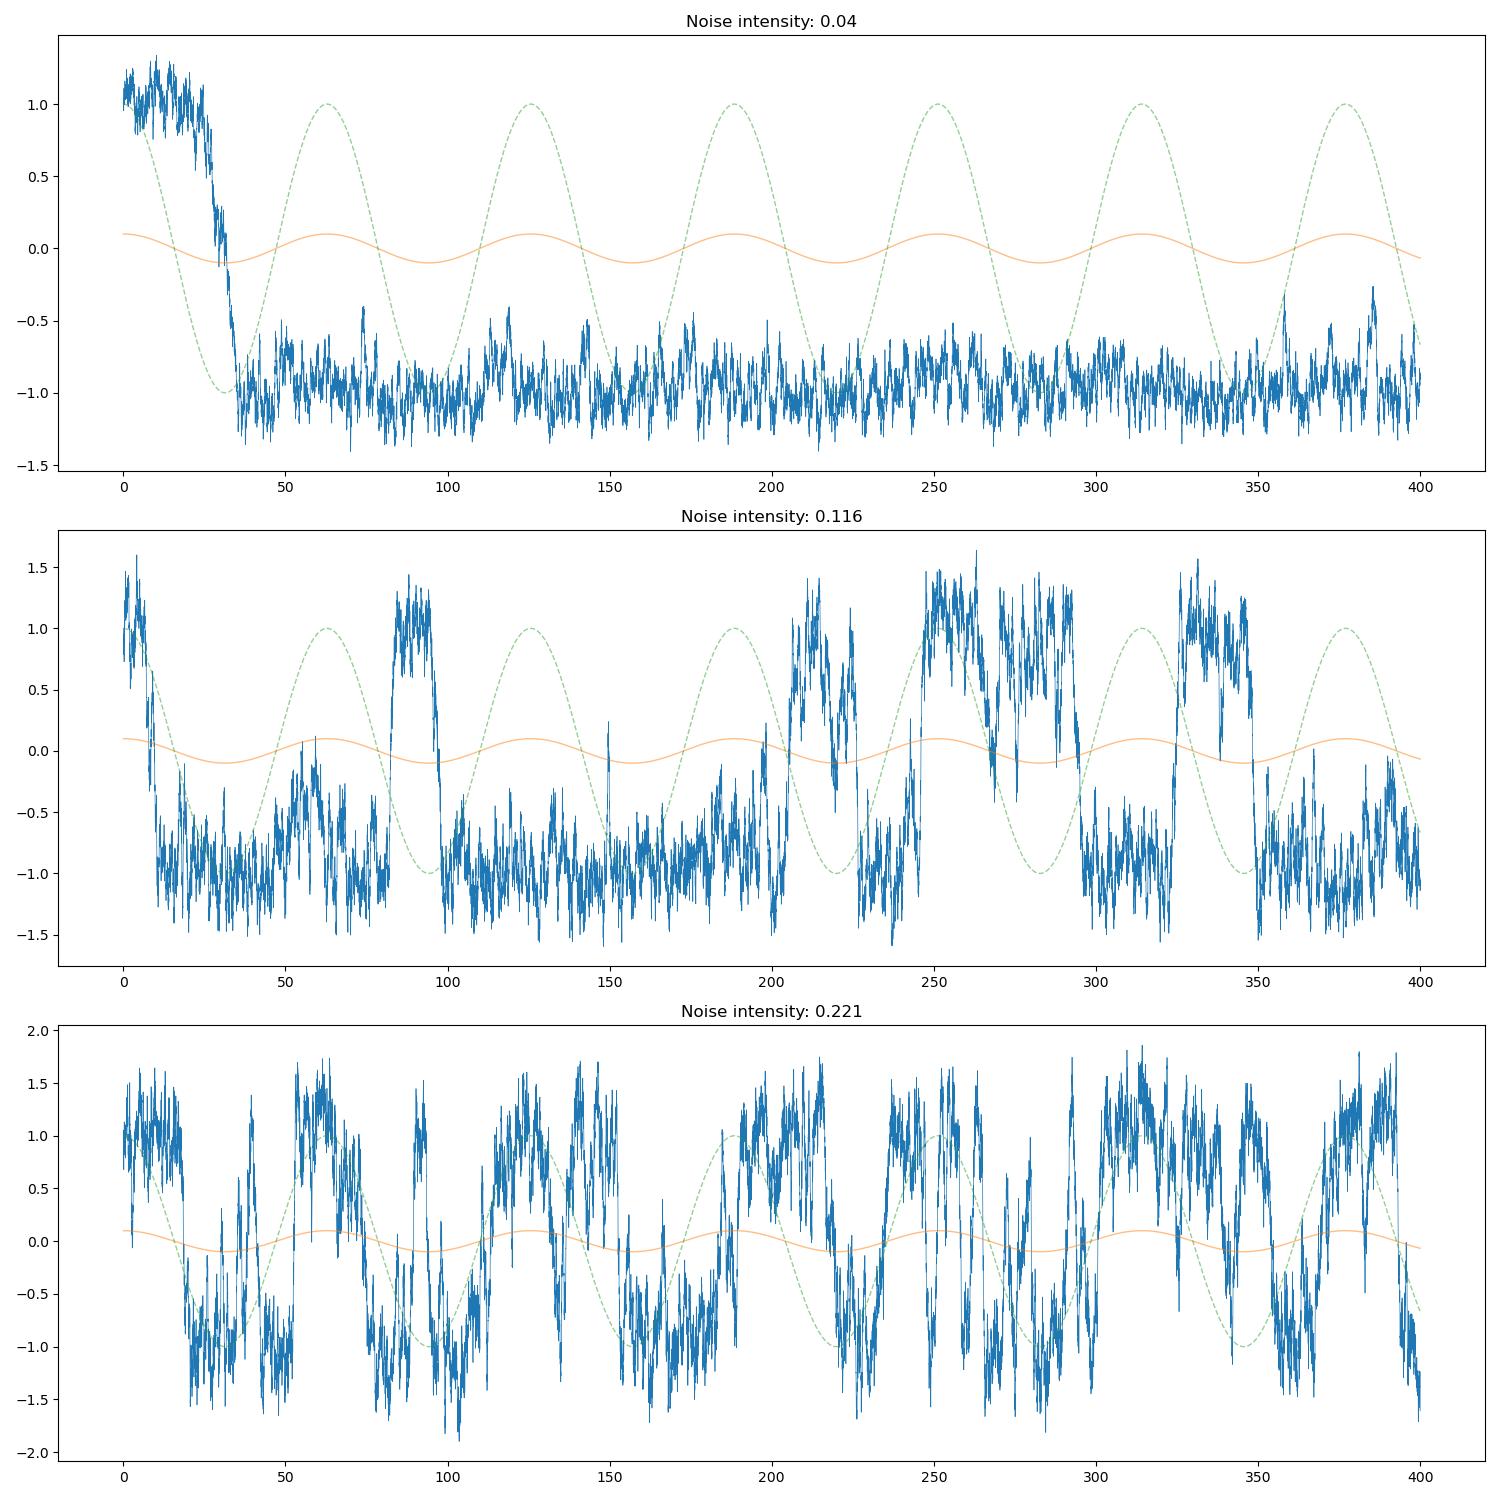
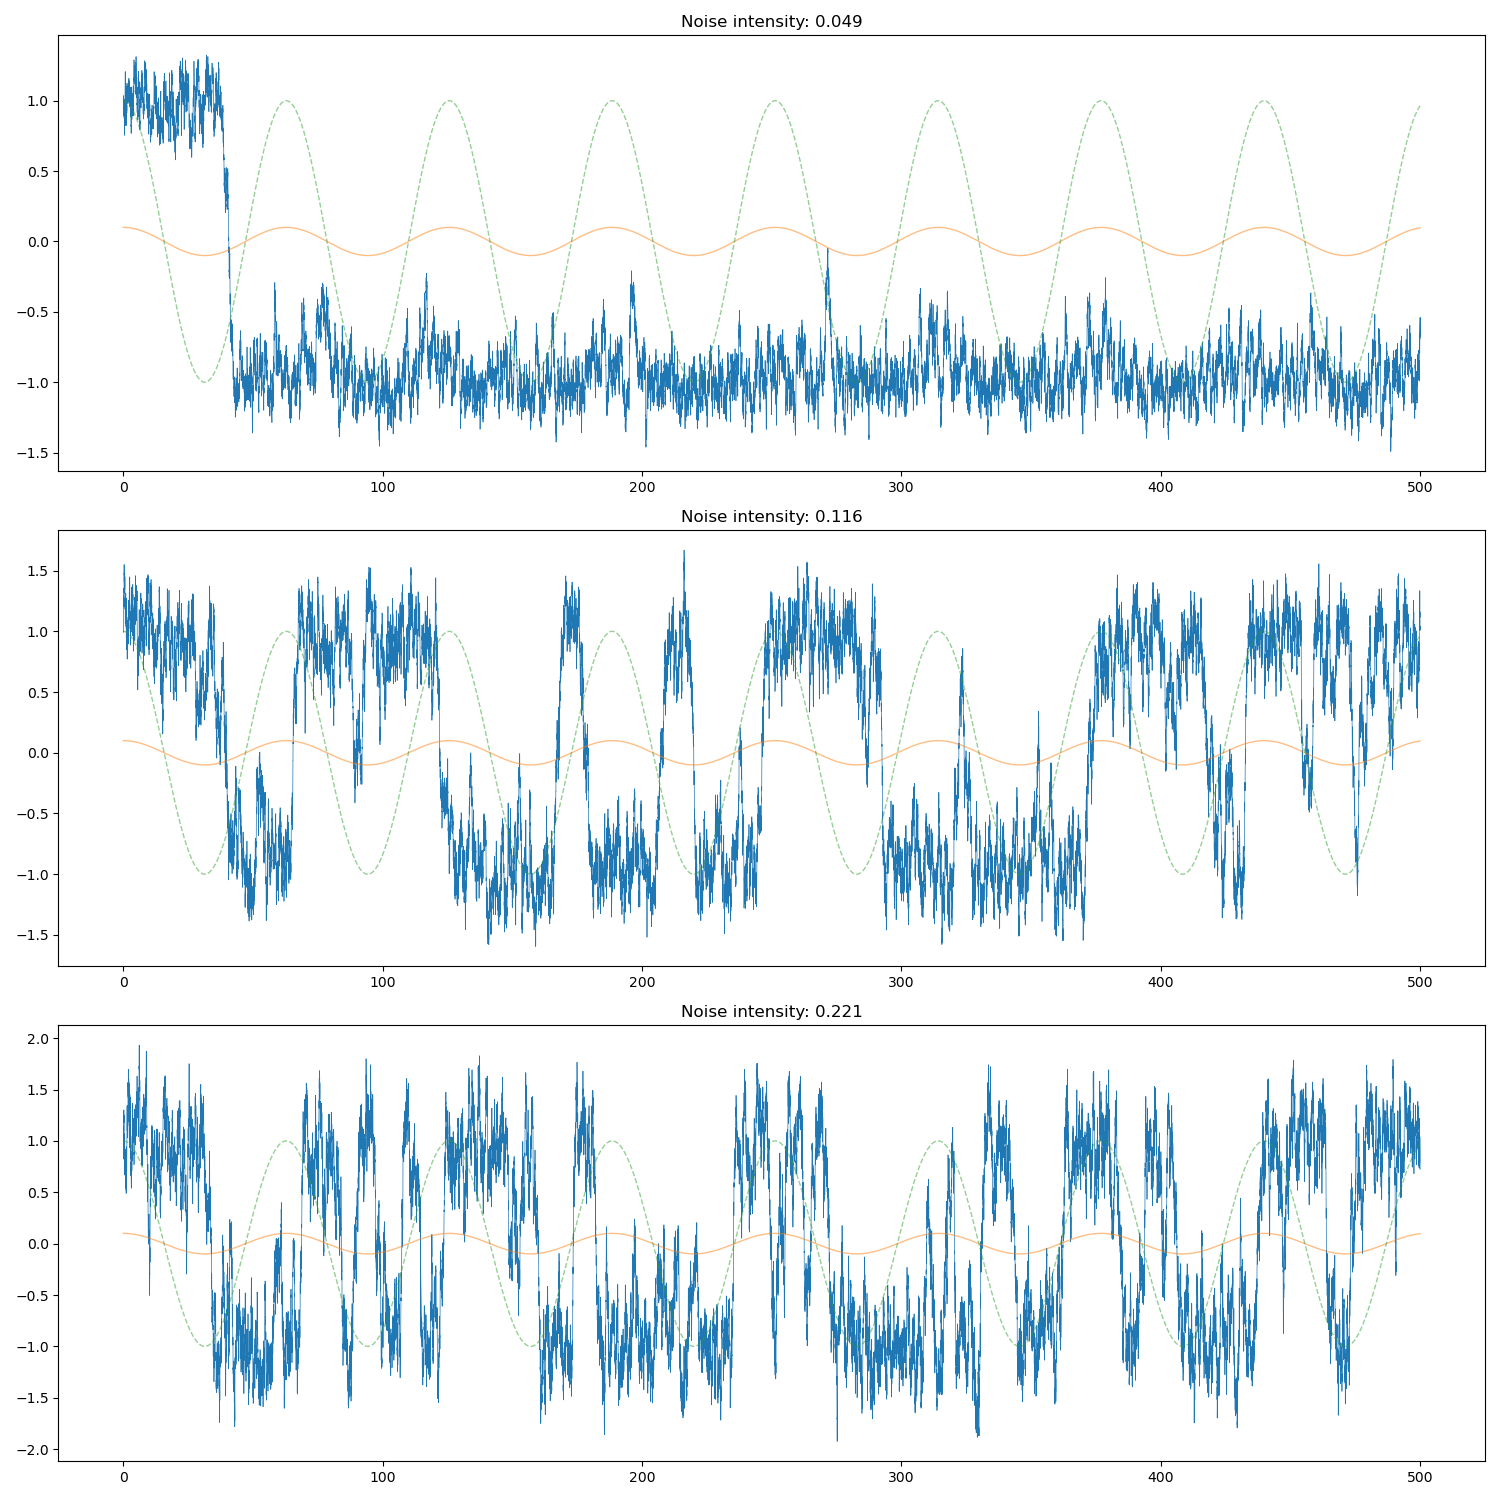
2

diff --git a/plot_trajectories.py b/plot_trajectories.py
@@ -50,7 +50,7 @@ config.read(config_file)
 
 D_start = float(config['simulation_parameters']['D_start'])
 D_end = float(config['simulation_parameters']['D_end'])
-D_step = float(config['simulation_parameters']['num_Ds'])
+D_step = int(config['simulation_parameters']['num_Ds'])
 
 print('I valori di rumore simulati sono:', np.linspace(D_start, D_end, D_step))
 
@@ -78,7 +78,7 @@ except ValueError:
 #Runno una simulazione per ciascun valore di noise intensity scelto con stessi parametri 
 #delle simulazioni precedenti
 
-t_end = float(config['simulation_parameters']['t_end'])//100
+t_end = float(config['simulation_parameters']['t_end'])//250
 h = float(config['simulation_parameters']['h'])
 x_0 = float(config['simulation_parameters']['x_0'])
 t_0 = float(config['simulation_parameters']['t_0'])
@@ -118,6 +118,7 @@ for i, key in enumerate(chosen_keys):
     axs[i].set_title('Noise intensity: ' + str(round(float(key), 3)))
 plt.tight_layout()
 #plt.show()
-plt.savefig('immagini/trajectories/chosen_trajectories.png')
+filename = 'traiettorie_scelte'
+plt.savefig(os.path.join(image_folder, filename))
 plt.close()
 
